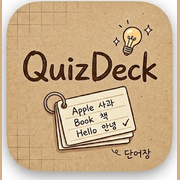
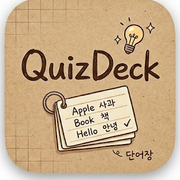
아이콘 흰 여백 제거 및 서비스워커 캐시 갱신
cover fit으로 아이콘 꽉 채움, sw 캐시 v2로 올려 앱 이름 변경 반영

diff --git a/public/sw.js b/public/sw.js
@@ -1,4 +1,4 @@
-const CACHE = 'quizdeck-v1'
+const CACHE = 'quizdeck-v2'
 
 const STATIC = [
   '/',
